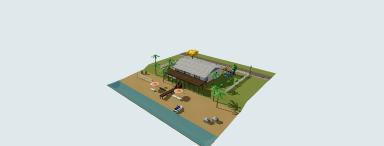
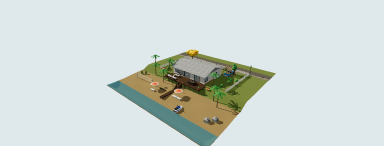
fix: beach house deck level with the floor
A deck stands at the highest ground under it plus its height; the sample used
the height as if measured from the lowest ground, lifting the deck 1.5 m above
the house floor. The deck now sits at the lawn level with its steps reaching
the sand, and the boardwalk runs close to the sand.

Claude-Session: https://claude.ai/code/session_01Lo3hTrNFbJMoRrCNLZxHSv

Changed region(s): [[0.4062, 0.4658, 0.5625, 0.6849], [0.4062, 0.6027, 0.4688, 0.6849]]

diff --git a/page/utils/house-planner/js/samples/beach.js b/page/utils/house-planner/js/samples/beach.js
@@ -66,9 +66,10 @@ function outdoors(p) {
   patch(p, rect(-2200, 690, 2200, 1750), "sand", "#e2d3ad");
   pond(p, rect(-2200, 1650, 2200, 2200), { depth: 150, height: 20, tint: "#cfbf9a" });
   // deck on posts in front of the house, boardwalk down to the water
-  deck(p, rect(-800, 300, 800, 700), { height: LAWN + 2, open: true, tint: "#c9a87a" });
-  deck(p, rect(-60, 950, 60, 1550), { height: 50, open: true, tint: "#c9a87a" });
-  const DECK = LAWN; // top of the deck on posts
+  // a deck stands at the highest ground under it plus its height: level with the house floor at the lawn edge, on posts over the slope
+  deck(p, rect(-800, 300, 800, 700), { height: 3, open: true, tint: "#c9a87a" });
+  deck(p, rect(-60, 950, 60, 1550), { height: 8, open: true, tint: "#c9a87a" });
+  const DECK = LAWN + 3; // top of the deck on posts
   lot(p, "outdoor-sofa", -450, 400, "n", 0, DECK); lot(p, "outdoor-dining-set", 350, 500, "n", 0, DECK); lot(p, "lounger", -600, 600, "n", 0, DECK); lot(p, "lounger", -380, 600, "n", 0, DECK);
   lot(p, "fire-pit", -450, 560, "n", 0, DECK); for (const x of [-760, 760]) lot(p, "planter", x, 660, "n", 0, DECK);
   for (const x of [-700, -350, 350, 700]) lot(p, "garden-bollard", x, 685, "n", 0, DECK);
